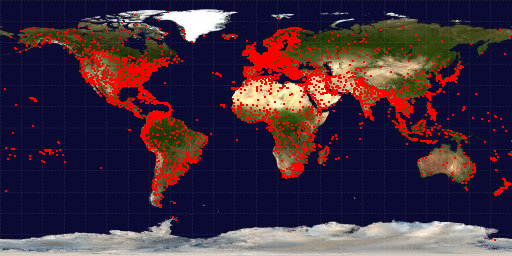
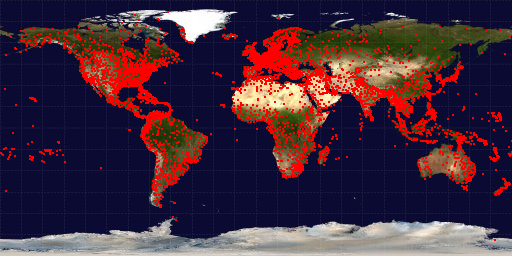
Update airport DB renderings, airport count

diff --git a/data.html b/data.html
@@ -22,7 +22,7 @@
 
 	    <p><center><a href="/demo/openflights-apdb-2048.png"><img src="/demo/openflights-apdb.png" width="512" height="256"></a><br>(click to enlarge)</center></p>
 
-	    <p>As of February 2009, the OpenFlights Airports Database contains <b>4381</b> airports spanning the globe as shown above.  Each entry contains the following information:</p>
+	    <p>As of February 2009, the OpenFlights Airports Database contains <b>5391</b> airports spanning the globe, as shown in the map above.  Each entry contains the following information:</p>
 
 	    <table>
 		<tr>
@@ -72,7 +72,7 @@
 	      </tr>
 	    </table>
 
-	    <p>The data is ASCII-encoded, with no special characters.</p>
+	    <p>The data is ISO 8859-1 (Latin-1) encoded, with no special characters.</p>
 
 	    <p><i>Note</i>: Rules for daylight savings time change from year to year and from country to country.  The current data is an approximation for 2009, built on a country level.  Most airports in DST-less regions in countries that generally observe DST (eg. AL, HI in the USA, NT, QL in Australia, parts of Canada) are marked incorrectly.</p>
 
